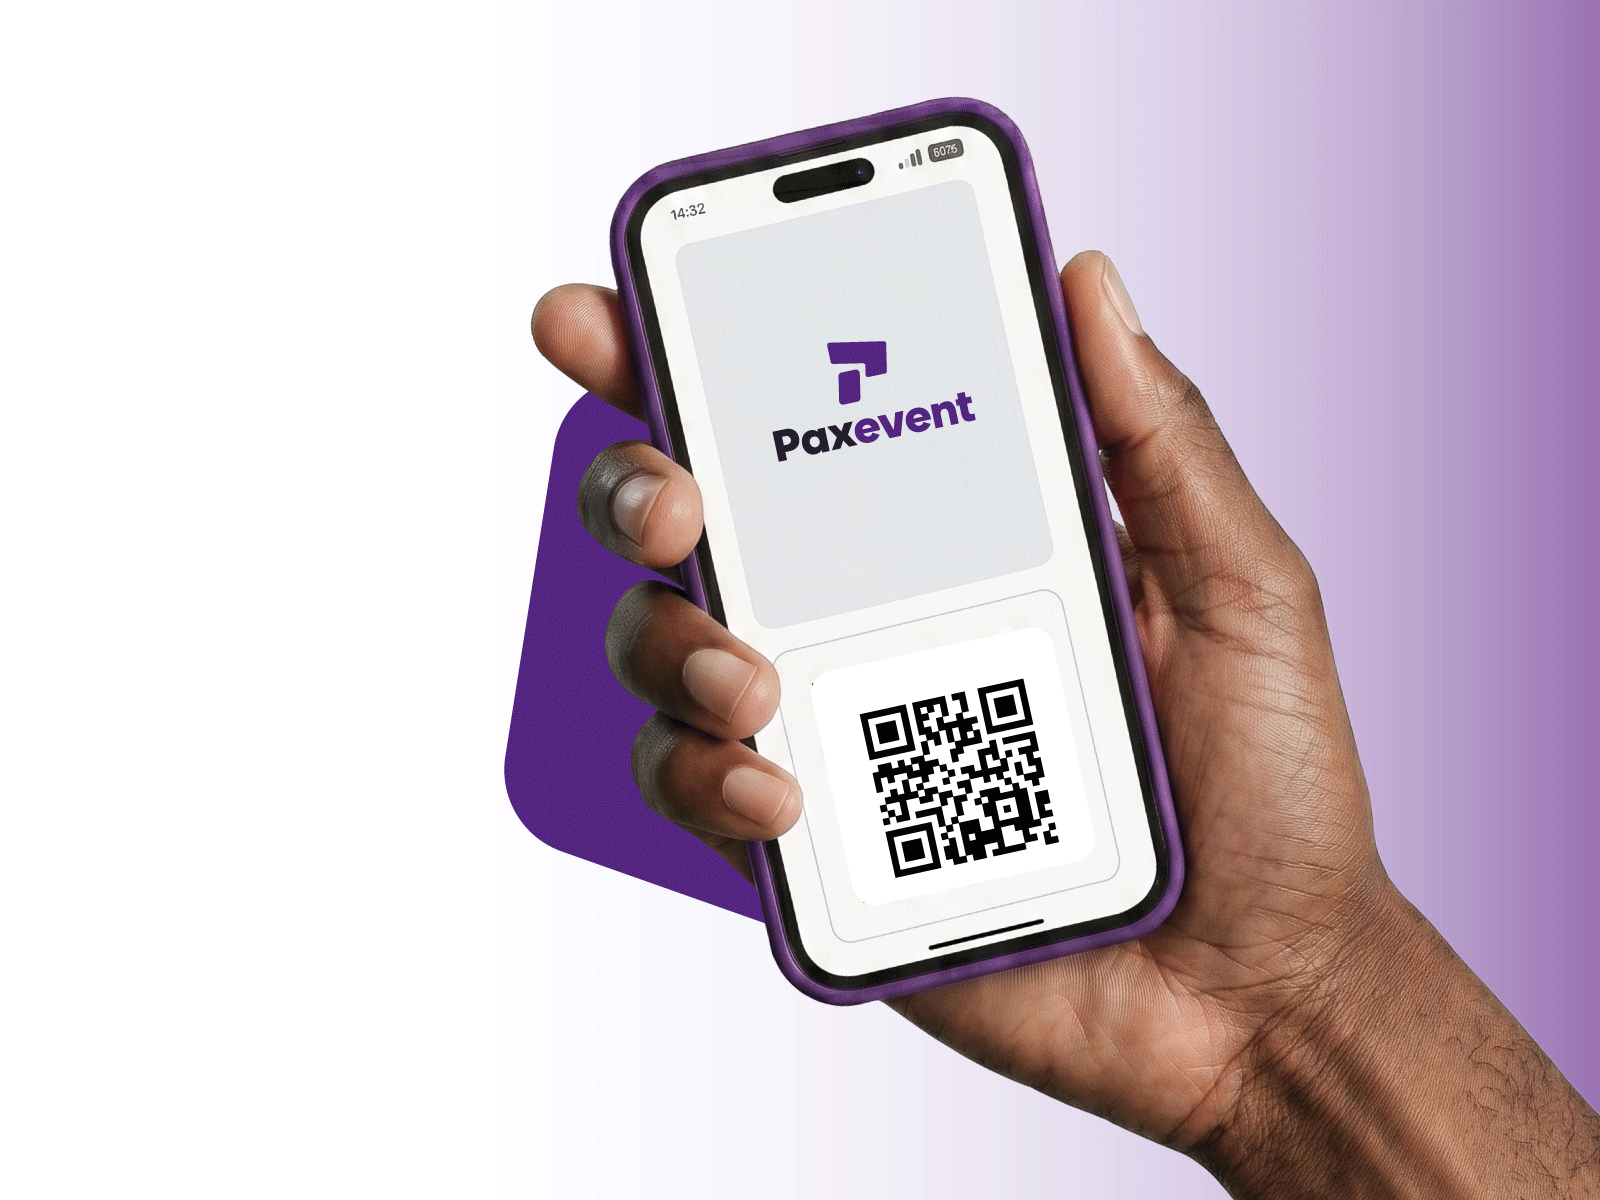
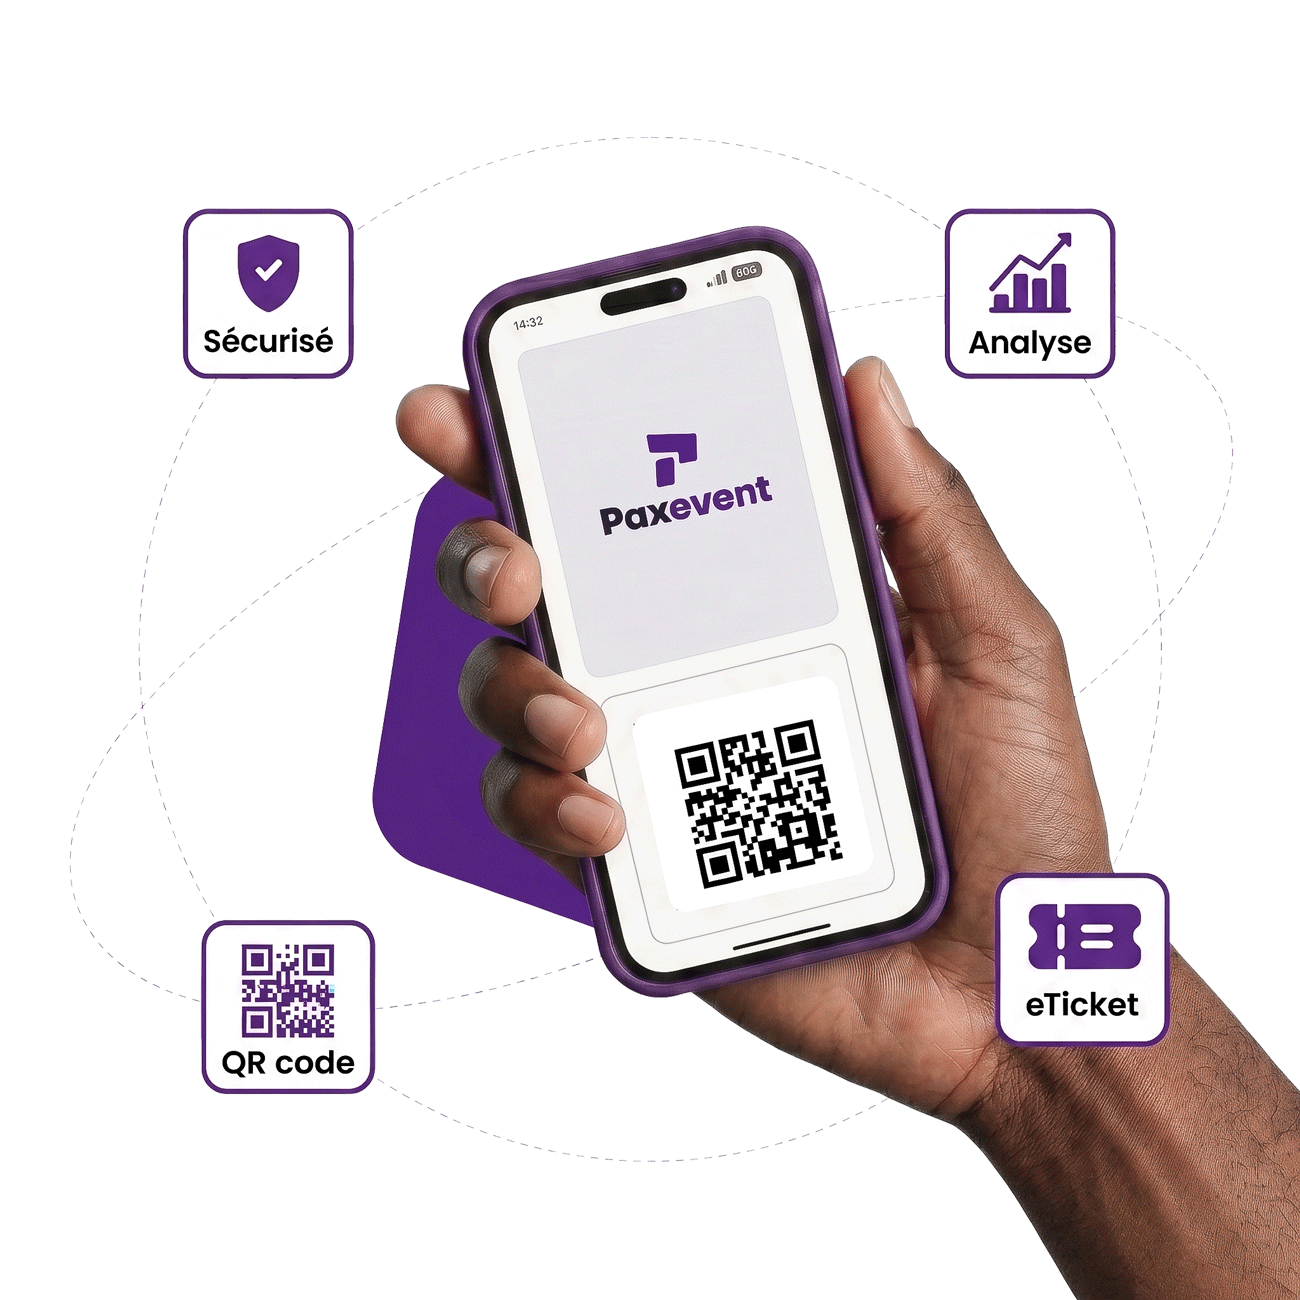
modification image héro

diff --git a/resources/views/site/accueil.blade.php b/resources/views/site/accueil.blade.php
@@ -56,18 +56,6 @@
             <div class="col-lg-6 d-flex align-items-center justify-content-center">
                 <div class="hero-mockup">
                     <img src="{{ asset_v('images/image_heros.jpeg') }}" alt="Illustration PaxEvent" class="hero-illustration">
-                    <div class="hero-float-card float-card-1">
-                        <i class="bi bi-ticket-perforated"></i>
-                        <span>Billet électronique</span>
-                    </div>
-                    <div class="hero-float-card float-card-2">
-                        <i class="bi bi-shield-check"></i>
-                        <span>Paiement sécurisé</span>
-                    </div>
-                    <div class="hero-float-card float-card-3">
-                        <i class="bi bi-qr-code"></i>
-                        <span>Scan QR code</span>
-                    </div>
                 </div>
             </div>
         </div>
